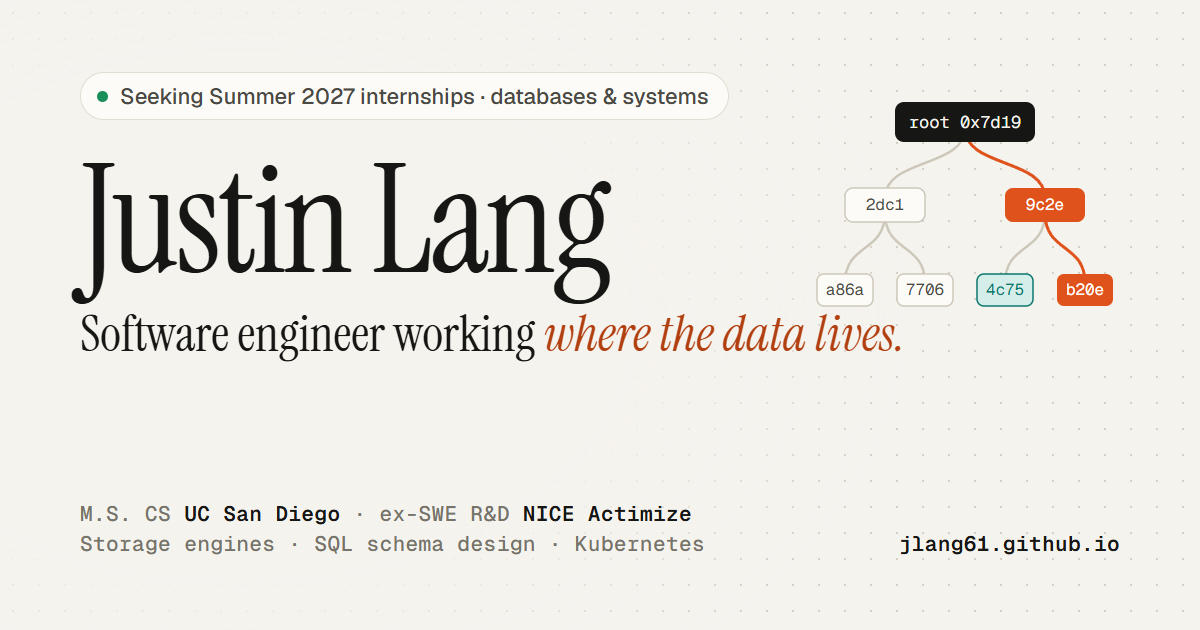
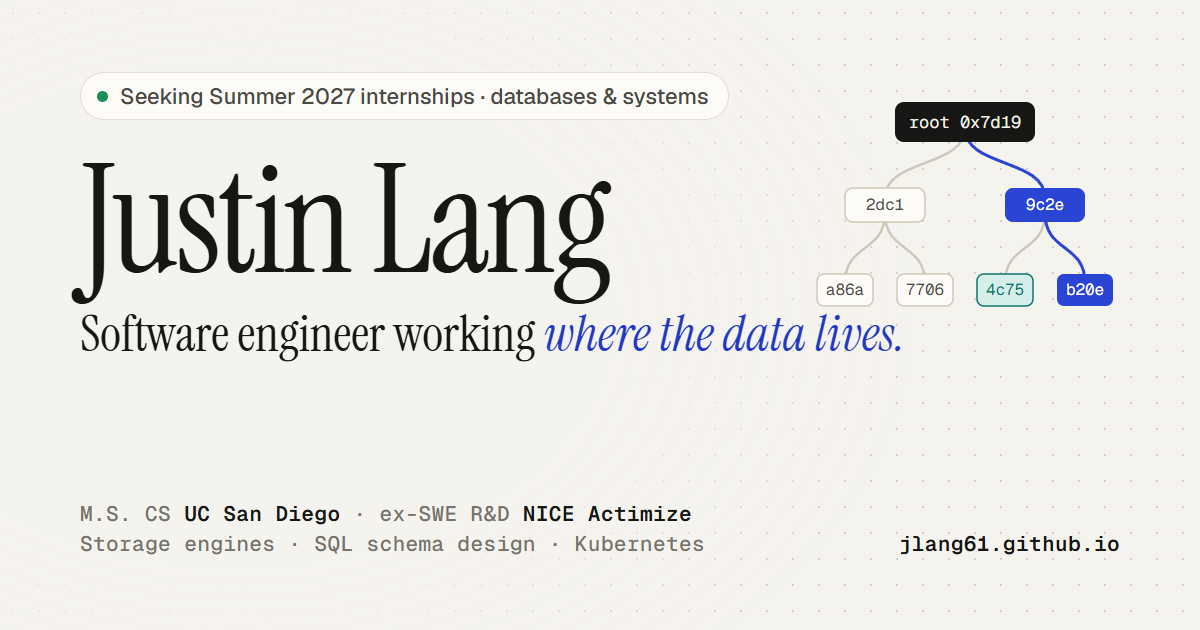
Switch accent color from orange to blue
Cobalt (#2f4ce0) in light mode and a clearer azure-leaning blue (#5e9bff)
in dark mode, where cobalt drifts toward periwinkle. Also updates the
always-dark contact section, print styles, favicon, touch icon, and the
Open Graph image, and makes text selection use the accessible fill pair.

Changed region(s): [[0.4317, 0.5127, 0.74, 0.573], [0.8017, 0.2413, 0.925, 0.3921], [0.8633, 0.4222, 0.925, 0.5127]]

diff --git a/src/styles/base.css b/src/styles/base.css
@@ -14,11 +14,11 @@
   --line: light-dark(#e2ded3, #262624);
   --line-strong: light-dark(#cdc8ba, #3a3a36);
 
-  --accent: light-dark(#e0521b, #ff7a45);
-  --accent-ink: light-dark(#b13f0f, #ff9468);
-  --accent-fill: light-dark(#c4460f, #ff7a45);
-  --on-accent: light-dark(#ffffff, #160a04);
-  --accent-soft: light-dark(#fbe5da, #2c160c);
+  --accent: light-dark(#2f4ce0, #5e9bff);
+  --accent-ink: light-dark(#2139c2, #8cb8ff);
+  --accent-fill: light-dark(#2a45d4, #5e9bff);
+  --on-accent: light-dark(#ffffff, #03122b);
+  --accent-soft: light-dark(#e3e7fb, #0f1e38);
   --teal: light-dark(#0b776d, #45cdbd);
   --teal-soft: light-dark(#d6eeea, #0f2a27);
   --ok: light-dark(#1b8f59, #3ccf8e);
@@ -112,8 +112,8 @@ em {
 }
 
 ::selection {
-  background: var(--accent);
-  color: #fff;
+  background: var(--accent-fill);
+  color: var(--on-accent);
 }
 
 :focus-visible {

diff --git a/src/styles/layout.css b/src/styles/layout.css
@@ -1115,7 +1115,7 @@
   --c-ink-2: #b9b7ae;
   --c-ink-3: #85837a;
   --c-line: #2c2c29;
-  --c-accent: #ff8a5c;
+  --c-accent: #7fb0ff;
   background: var(--c-bg);
   color: var(--c-ink);
 }

diff --git a/src/styles/print.css b/src/styles/print.css
@@ -68,7 +68,7 @@
     --c-ink-2: #444;
     --c-ink-3: #666;
     --c-line: #ddd;
-    --c-accent: #b13f0f;
+    --c-accent: #2139c2;
     margin-top: 24pt;
     padding-block: 18pt;
   }
